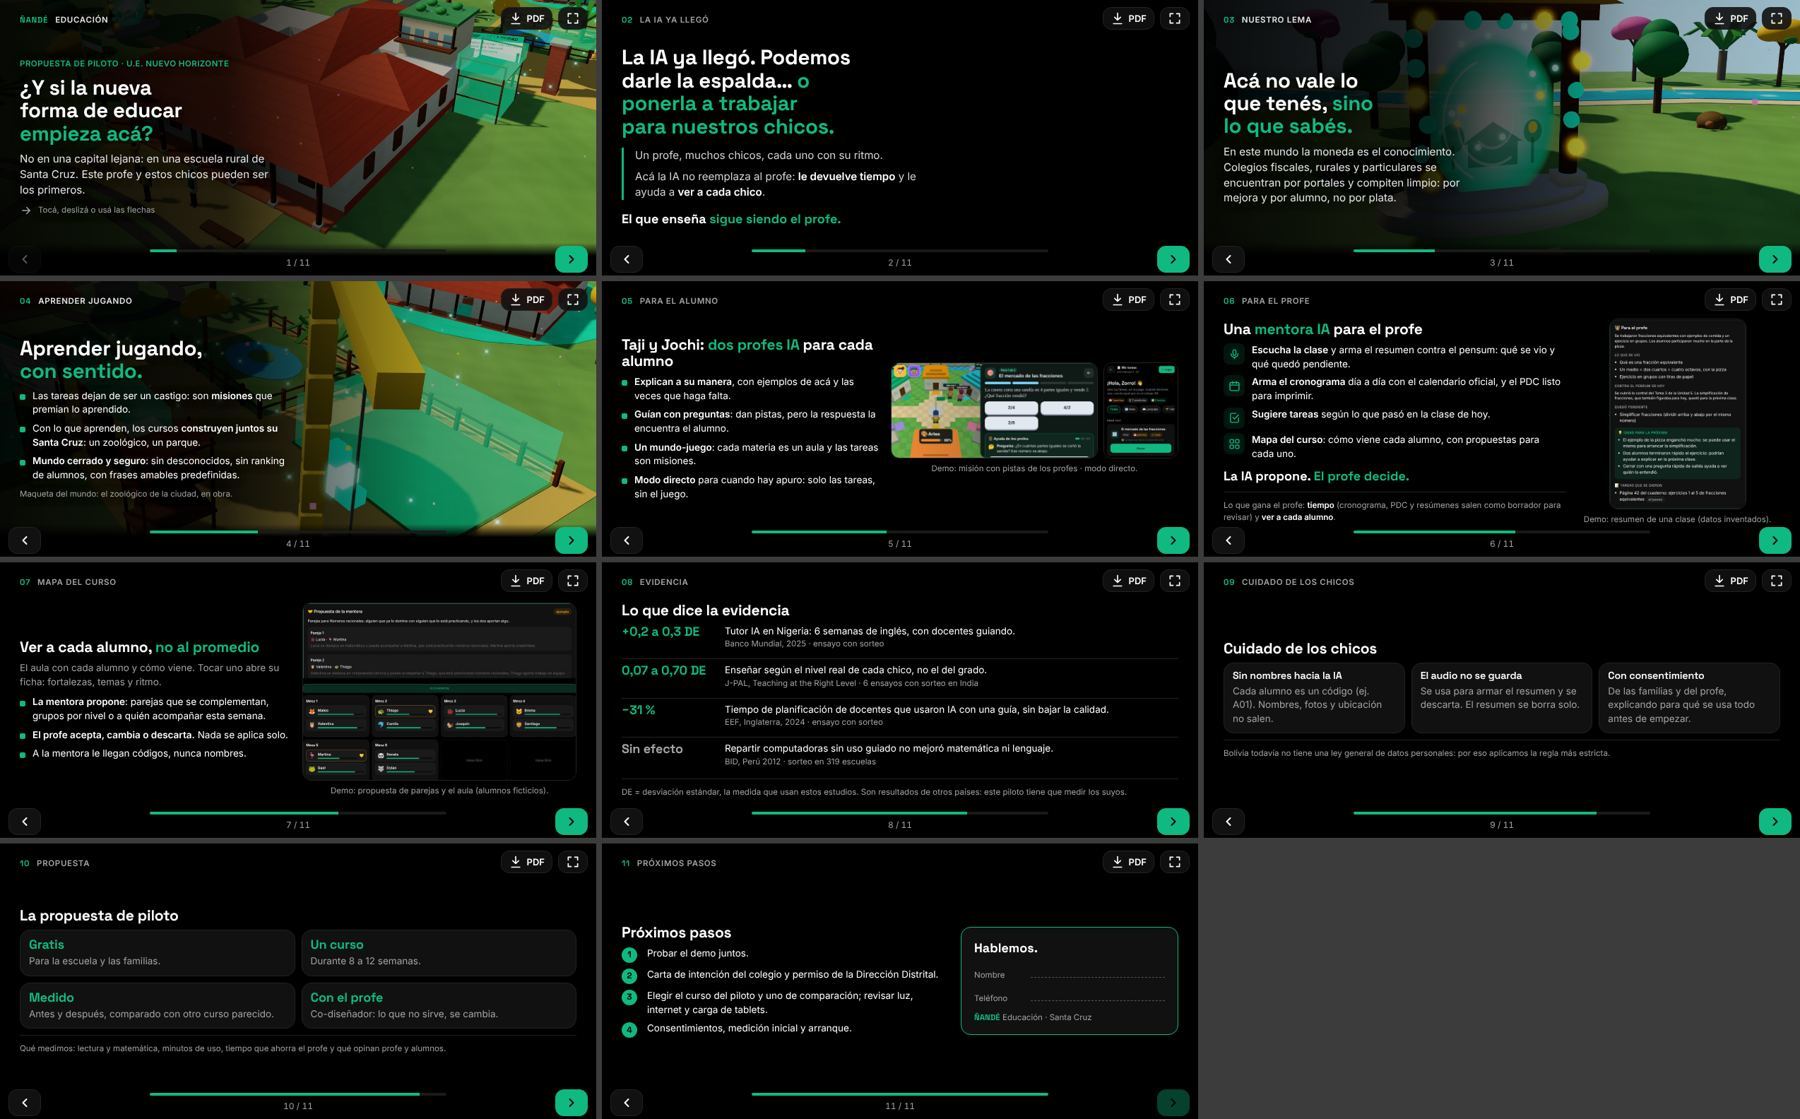
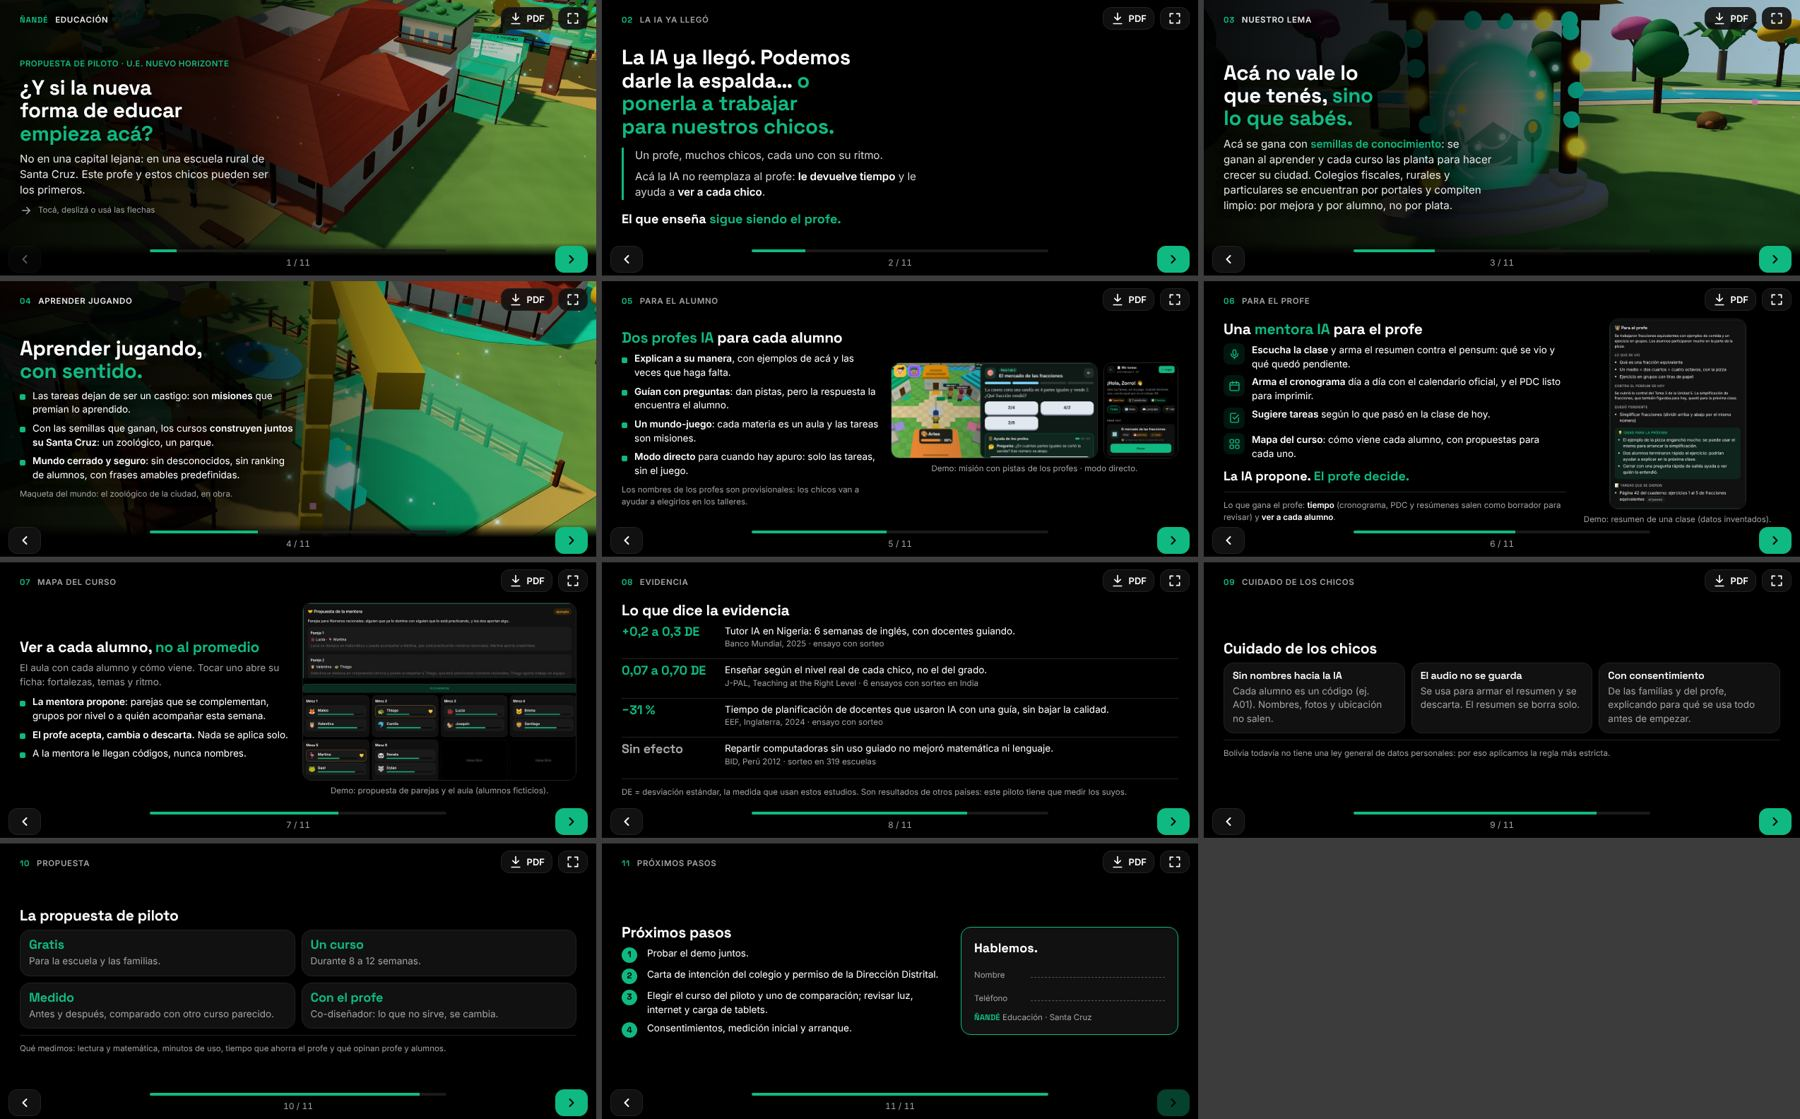
EDU.14b — Sin "Jochi": profes IA sin nombre y "semillas de conocimiento"
Los nombres de los profes son provisionales (los eligen los chicos en los
talleres). "Moneda" pasa a "semillas de conocimiento".

Claude-Session: https://claude.ai/code/session_01Jdt98c2PQNpQHHMW92gX8n

Changed region(s): [[0.3422, 0.2735, 0.4978, 0.4558], [0.6844, 0.0608, 0.8089, 0.2127], [0.0311, 0.3646, 0.1556, 0.395]]

diff --git a/educacion/presentacion/index.html b/educacion/presentacion/index.html
@@ -121,6 +121,7 @@ figcaption { font-size: var(--chico); color: var(--sec); text-align: center; }
 .bajada { font-size: calc(var(--f) * 1.12); color: #e5e5e5; max-width: 40ch; }
 .antetitulo { font-size: var(--chico); color: var(--verde); font-weight: 600; letter-spacing: .04em; text-transform: uppercase; }
 .hero .lista { max-width: 46ch; }
+.bajada b { color: var(--verde); font-weight: 600; }
 .declaracion .cuerpo { gap: calc(var(--gap) * 1.6); }
 .declaracion h1 { max-width: 22ch; }
 .lineas { display: flex; flex-direction: column; gap: 8px; font-size: calc(var(--f) * 1.12); color: #d4d4d4; max-width: 44ch; border-left: 3px solid var(--verde); padding-left: 16px; }
@@ -244,7 +245,7 @@ figcaption { font-size: var(--chico); color: var(--sec); text-align: center; }
     <div class="marca"><b class="n"></b> Nuestro lema</div>
     <div class="cuerpo">
       <h1>Acá no vale lo que tenés, <span class="verde">sino lo que sabés.</span></h1>
-      <p class="bajada">En este mundo la moneda es el conocimiento. Colegios fiscales, rurales y particulares se encuentran por portales y compiten limpio: por mejora y por alumno, no por plata.</p>
+      <p class="bajada">Acá se gana con <b>semillas de conocimiento</b>: se ganan al aprender y cada curso las planta para hacer crecer su ciudad. Colegios fiscales, rurales y particulares se encuentran por portales y compiten limpio: por mejora y por alumno, no por plata.</p>
     </div>
   </section>
 
@@ -256,7 +257,7 @@ figcaption { font-size: var(--chico); color: var(--sec); text-align: center; }
       <h1>Aprender jugando, <span class="verde">con sentido.</span></h1>
       <ul class="lista">
         <li>Las tareas dejan de ser un castigo: son <b>misiones</b> que premian lo aprendido.</li>
-        <li>Con lo que aprenden, los cursos <b>construyen juntos su Santa Cruz</b>: un zoológico, un parque.</li>
+        <li>Con las semillas que ganan, los cursos <b>construyen juntos su Santa Cruz</b>: un zoológico, un parque.</li>
         <li><b>Mundo cerrado y seguro</b>: sin desconocidos, sin ranking de alumnos, con frases amables predefinidas.</li>
       </ul>
       <p class="chico sec">Maqueta del mundo: el zoológico de la ciudad, en obra.</p>
@@ -267,13 +268,14 @@ figcaption { font-size: var(--chico); color: var(--sec); text-align: center; }
     <div class="marca"><b class="n"></b> Para el alumno</div>
     <div class="cuerpo dos img-grande">
       <div class="texto">
-        <h2><span data-n="profe1">Taji</span> y <span data-n="profe2">Jochi</span>: <span class="verde">dos profes IA</span> para cada alumno</h2>
+        <h2><span class="verde">Dos profes IA</span> para cada alumno</h2>
         <ul class="lista">
           <li><b>Explican a su manera</b>, con ejemplos de acá y las veces que haga falta.</li>
           <li><b>Guían con preguntas</b>: dan pistas, pero la respuesta la encuentra el alumno.</li>
           <li><b>Un mundo-juego</b>: cada materia es un aula y las tareas son misiones.</li>
           <li><b>Modo directo</b> para cuando hay apuro: solo las tareas, sin el juego.</li>
         </ul>
+        <p class="chico sec">Los nombres de los profes son provisionales: los chicos van a ayudar a elegirlos en los talleres.</p>
       </div>
       <figure><div class="par"><img src="img/alumno-pregunta.jpg" alt="El juego del alumno: una misión de fracciones con la ayuda de los profes" width="1200" height="555"><img src="img/alumno-tareas.jpg" alt="Modo directo: la lista de tareas del alumno" width="468" height="606"></div><figcaption>Demo: misión con pistas de los profes · modo directo.</figcaption></figure>
     </div>
@@ -394,7 +396,8 @@ figcaption { font-size: var(--chico); color: var(--sec); text-align: center; }
 <script>
 (() => {
   // Nombres en un solo lugar: si cambian la marca o los profes IA, se cambia acá.
-  const NOMBRES = { marca: 'ÑANDÉ', profe1: 'Taji', profe2: 'Jochi' };
+  // Los profes IA no se nombran en las láminas (nombres en revisión; los eligen los chicos en los talleres).
+  const NOMBRES = { marca: 'ÑANDÉ' };
   document.querySelectorAll('[data-n]').forEach((el) => { if (NOMBRES[el.dataset.n]) el.textContent = NOMBRES[el.dataset.n]; });
   document.title = NOMBRES.marca + ' Educación · Presentación';
 

diff --git a/docs/sesiones/EDU.14-presentacion.md b/docs/sesiones/EDU.14-presentacion.md
@@ -70,13 +70,15 @@ acorta lo práctico. Rama `sesion/pantalla-edu-14b`.
 
 Salieron "El aula de hoy" (quedó dentro de la 2) y "Qué gana el profe" (dentro de la 6).
 
-## Nombres en un solo lugar
+## Nombres
 
-Al principio del `<script>` de `educacion/presentacion/index.html`:
-`const NOMBRES = { marca: 'ÑANDÉ', profe1: 'Taji', profe2: 'Jochi' };` — cambia la marca, el título
-de la pestaña y los nombres de los profes. Los números de lámina se calculan solos.
-Ojo: la captura del resumen de clase (`img/profe-resumen.jpg`) muestra "Taji y Jochi" dentro de la
-imagen; si cambian los nombres, rehacer esa captura.
+- Investigación de nombres (MAESTRA, 11-nov): se descarta "Jochi". En la presentación los profes IA
+  **no se nombran** ("Dos profes IA para cada alumno") y una línea chica dice que los nombres son
+  provisionales y que **los chicos ayudan a elegirlos en los talleres**.
+- La marca está en una sola variable al principio del `<script>`: `const NOMBRES = { marca: 'ÑANDÉ' };`
+  (cambia la marca y el título de la pestaña). Las capturas usadas no muestran nombres de los profes.
+- "Moneda" → **"semillas de conocimiento"**: se ganan al aprender y el curso las planta para hacer
+  crecer su ciudad (láminas 3 y 4). El lema queda igual.
 
 ## Imágenes
 
